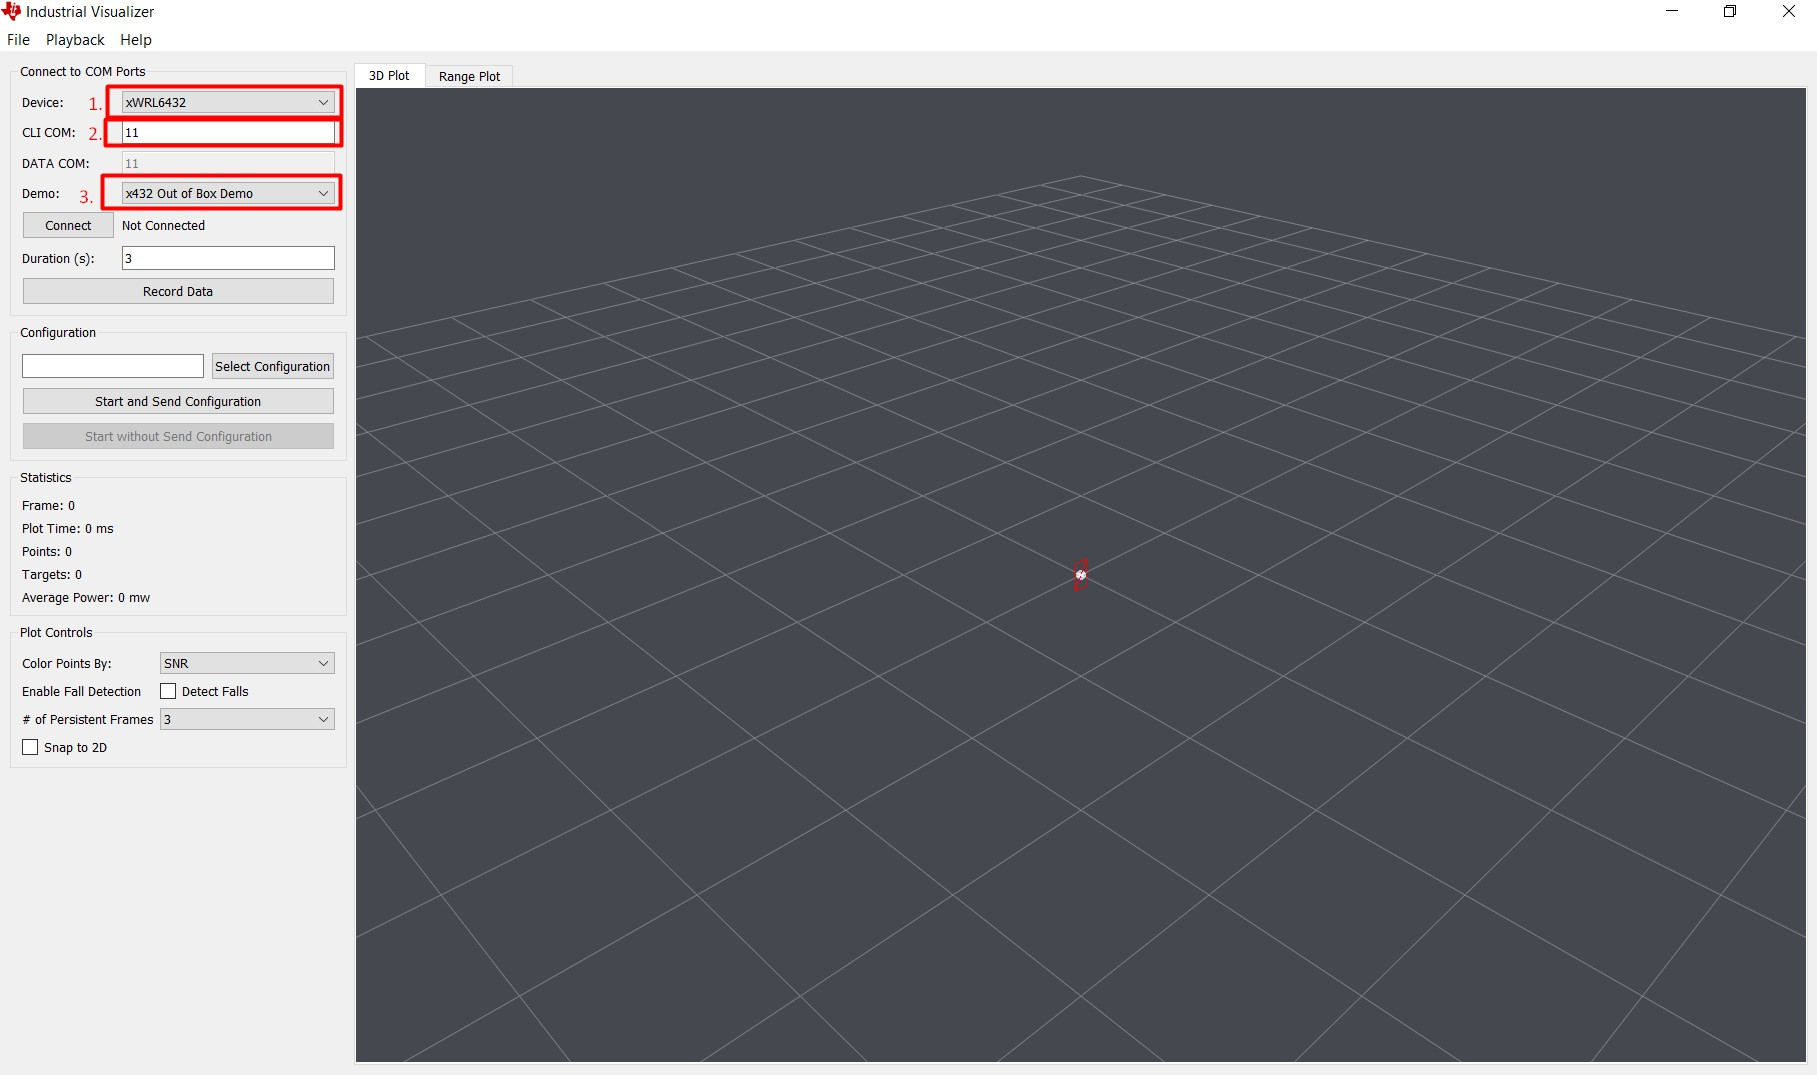
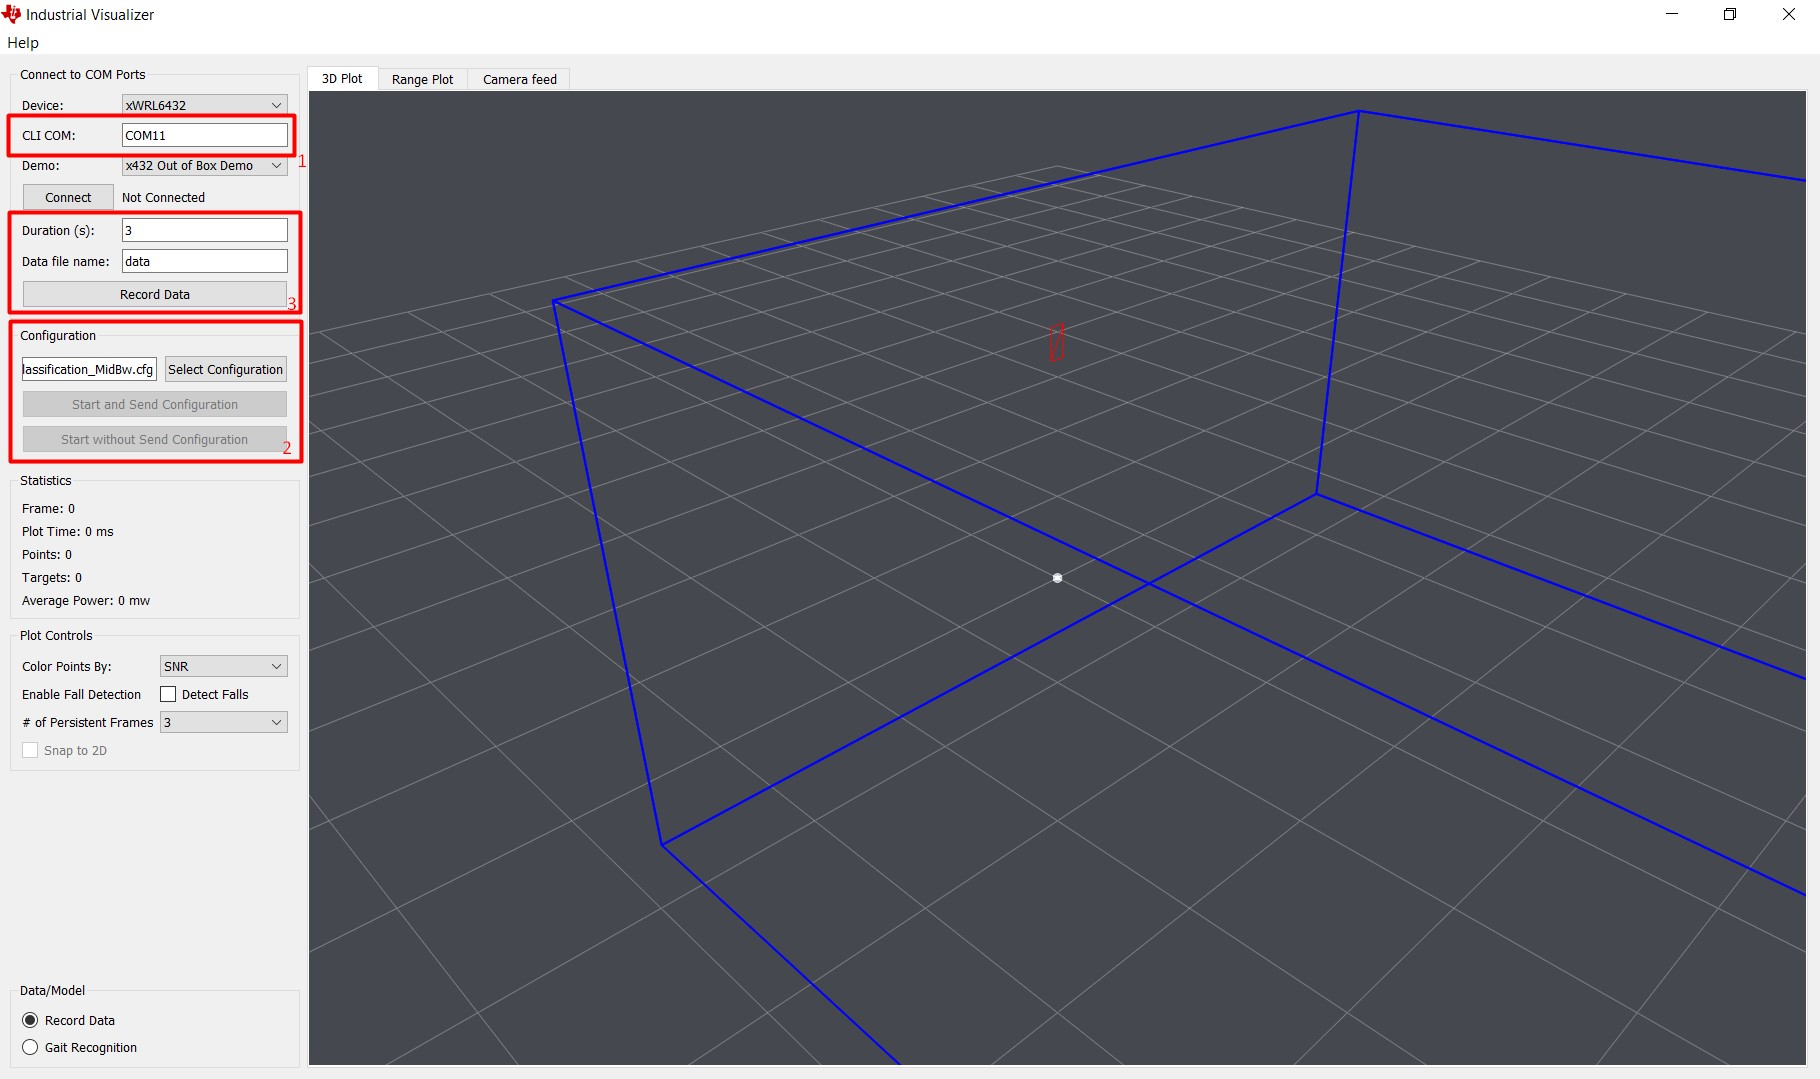
user instuctions update

diff --git a/README.md b/README.md
@@ -157,21 +157,20 @@ It is recommended to view the above using our documentation website.
 
 ### In `Applications_Visualizer\Industrial_Visualizer` open `IndustrialVisualiser.exe`
 ![Industrial Visualiser setup](</images/Industrial_Visualiser_1.jpg>)
-### 1. Choose xWRL6432 device
-### 2.  a) device manager find UART port number
+### 1. Enter the COM port (for WINDOWS) in the field
+### a) device manager find UART port number
   ![Device manager COM port](</images/Device_manager.jpg>)
-### b) Enter the COM port number in CLI port field
-### 3. Choose x432 Out of Box Demo in demo field
 ---
 ### Functionality:
 - Press the connect button, then press the Select config button.
-- In `Applications_Visualizer\Industrial_Visualizer\chirp_configs` choose one of the config files and press Open. 
+2. In `Applications_Visualizer\Industrial_Visualizer\chirp_configs` choose one of the config files and press Open. 
 ![Chirp config load](</images/Industrial_Visualiser_2.jpg>)
 - Press the Start and Send configuration button.
-- To record data: set the time in seconds (3 seconds is the default) and press the Record Data button.
+3. To record data: set the time in seconds (3 seconds is the default) and press the Record Data button. Use file name to castom the file name.
 ![Data record button](</images/Industrial_Visualiser_3.jpg>)
 - Recorded data will be located in `Applications_Visualizer\Industrial_Visualizer\binData`
-
+- NOTE: For linux port use comand readlink -f /dev/serial/by-id/* and enter CLI port in format /dev/ttyACM0 (commonly top one on the list)
+- NOTE: reset button does not work on linux => need to reset device manualy.
 </details>
 
 ## Model Compilation User Instructions
